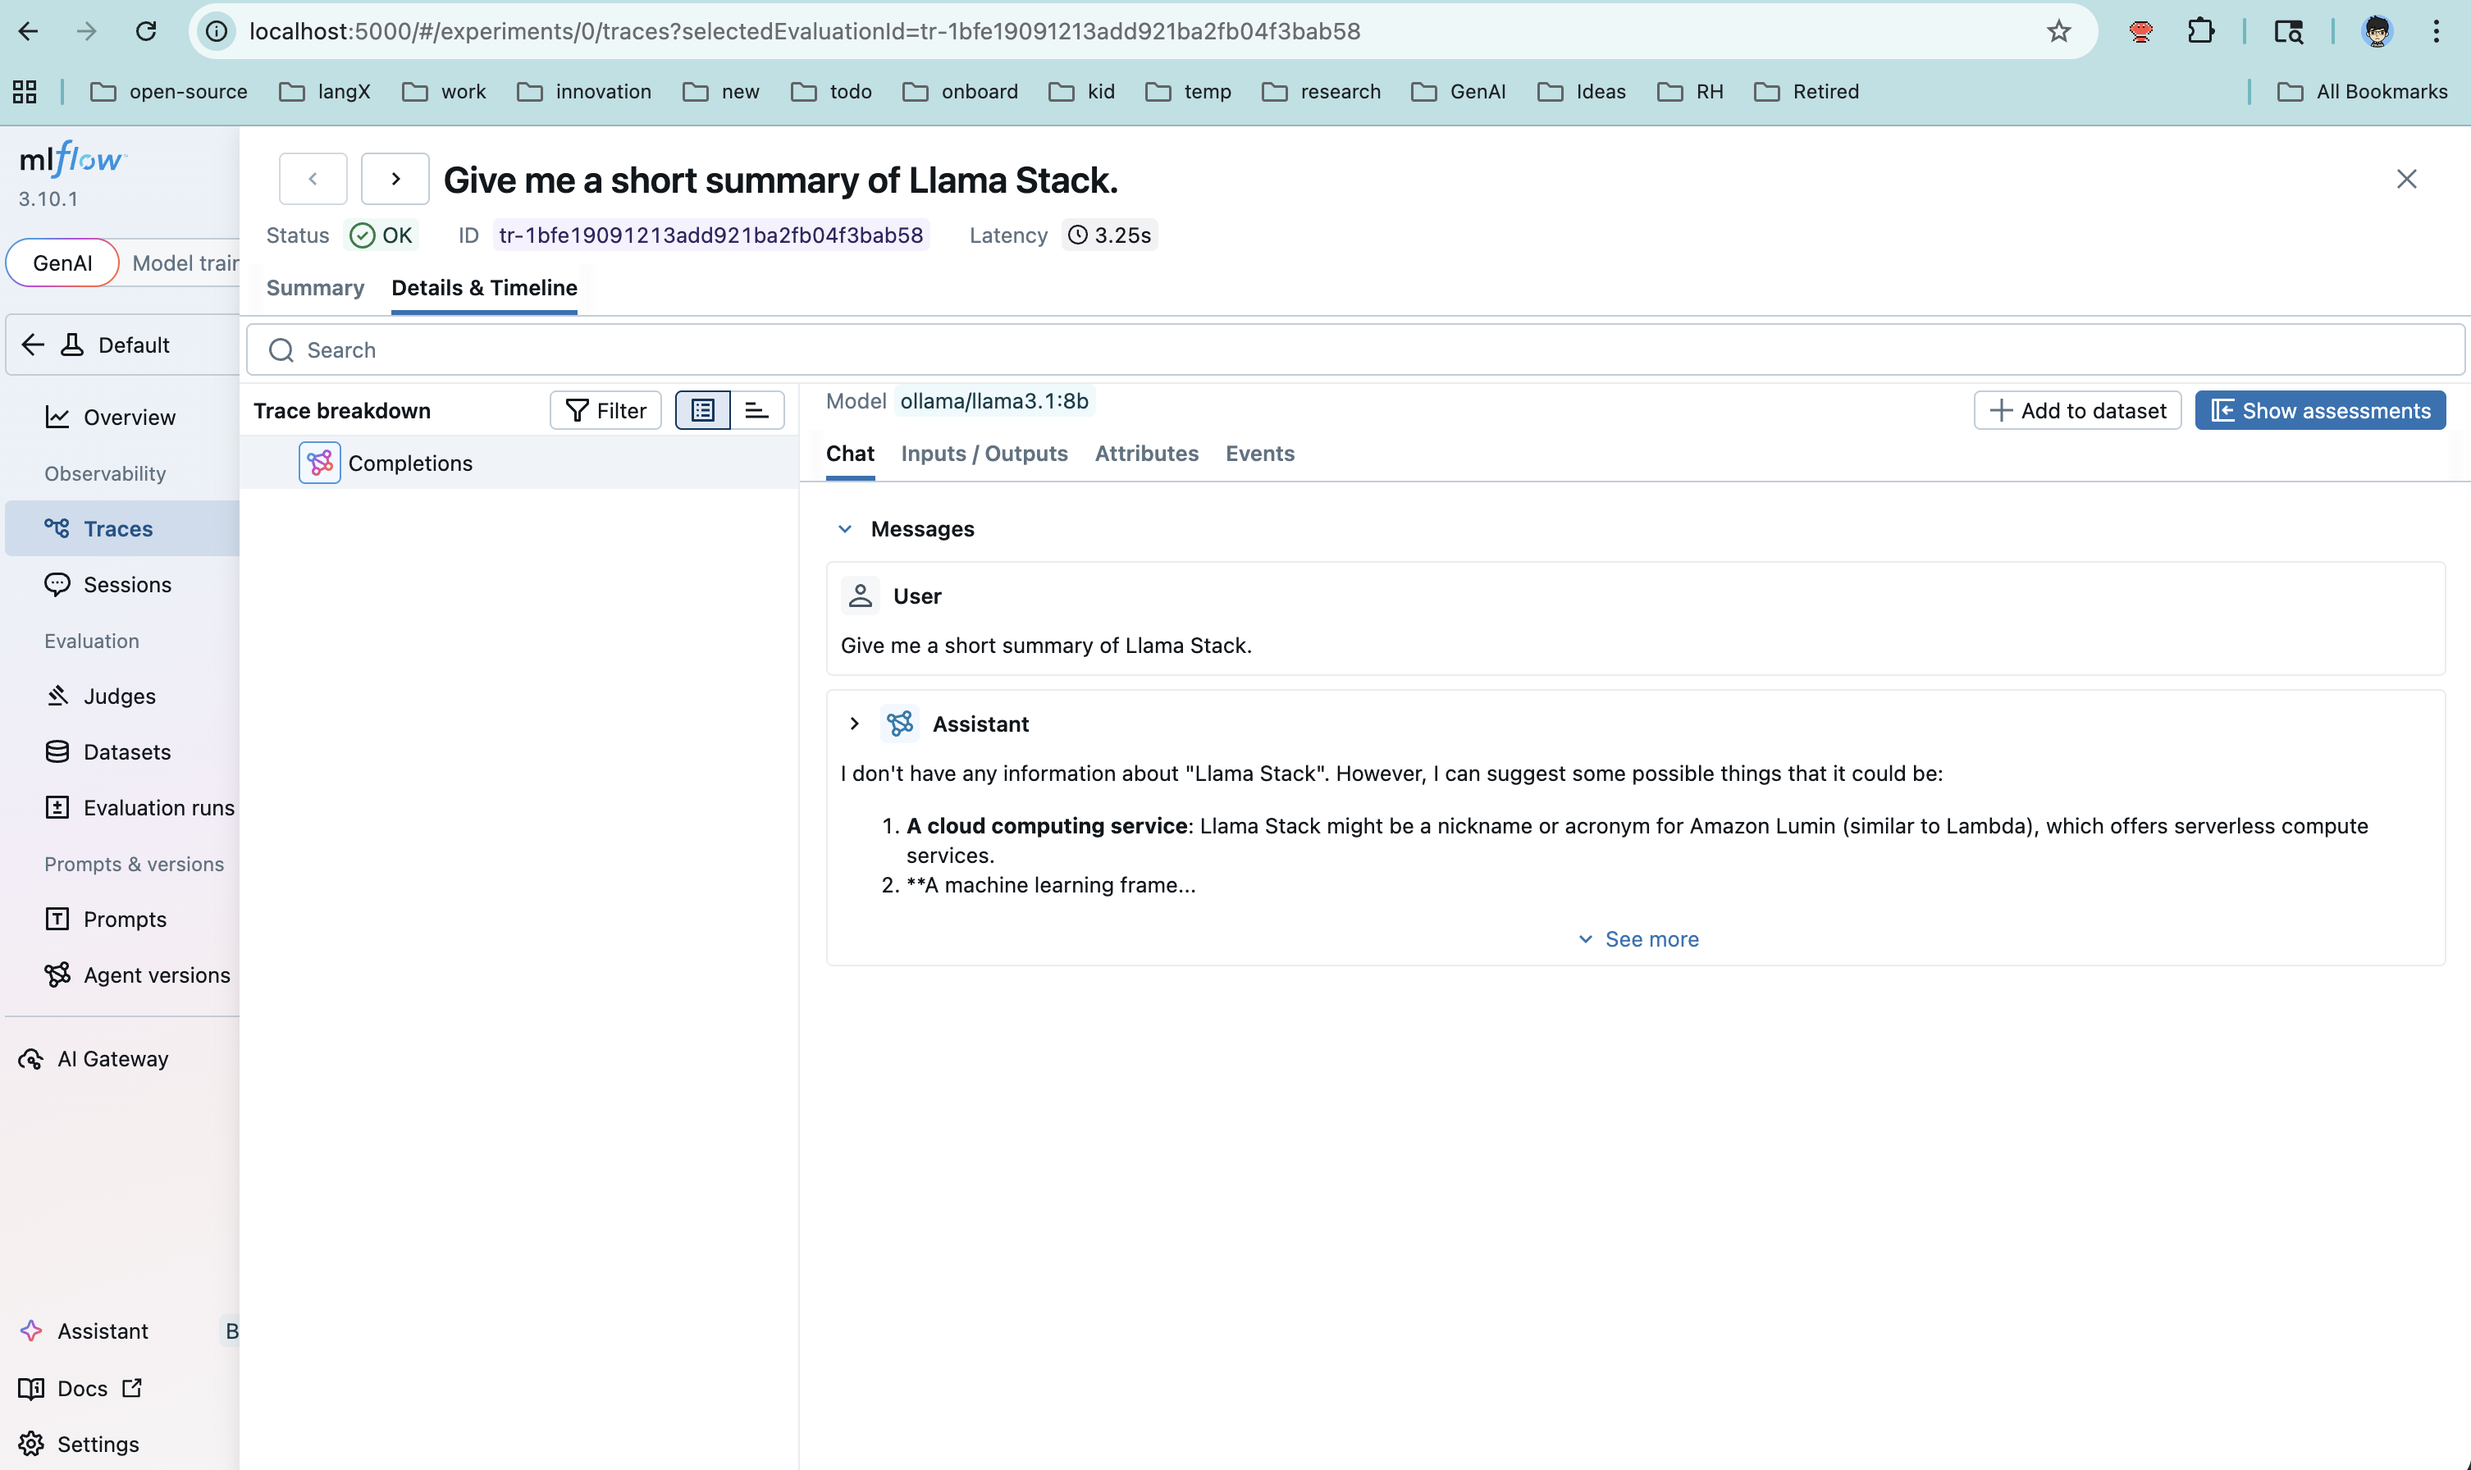
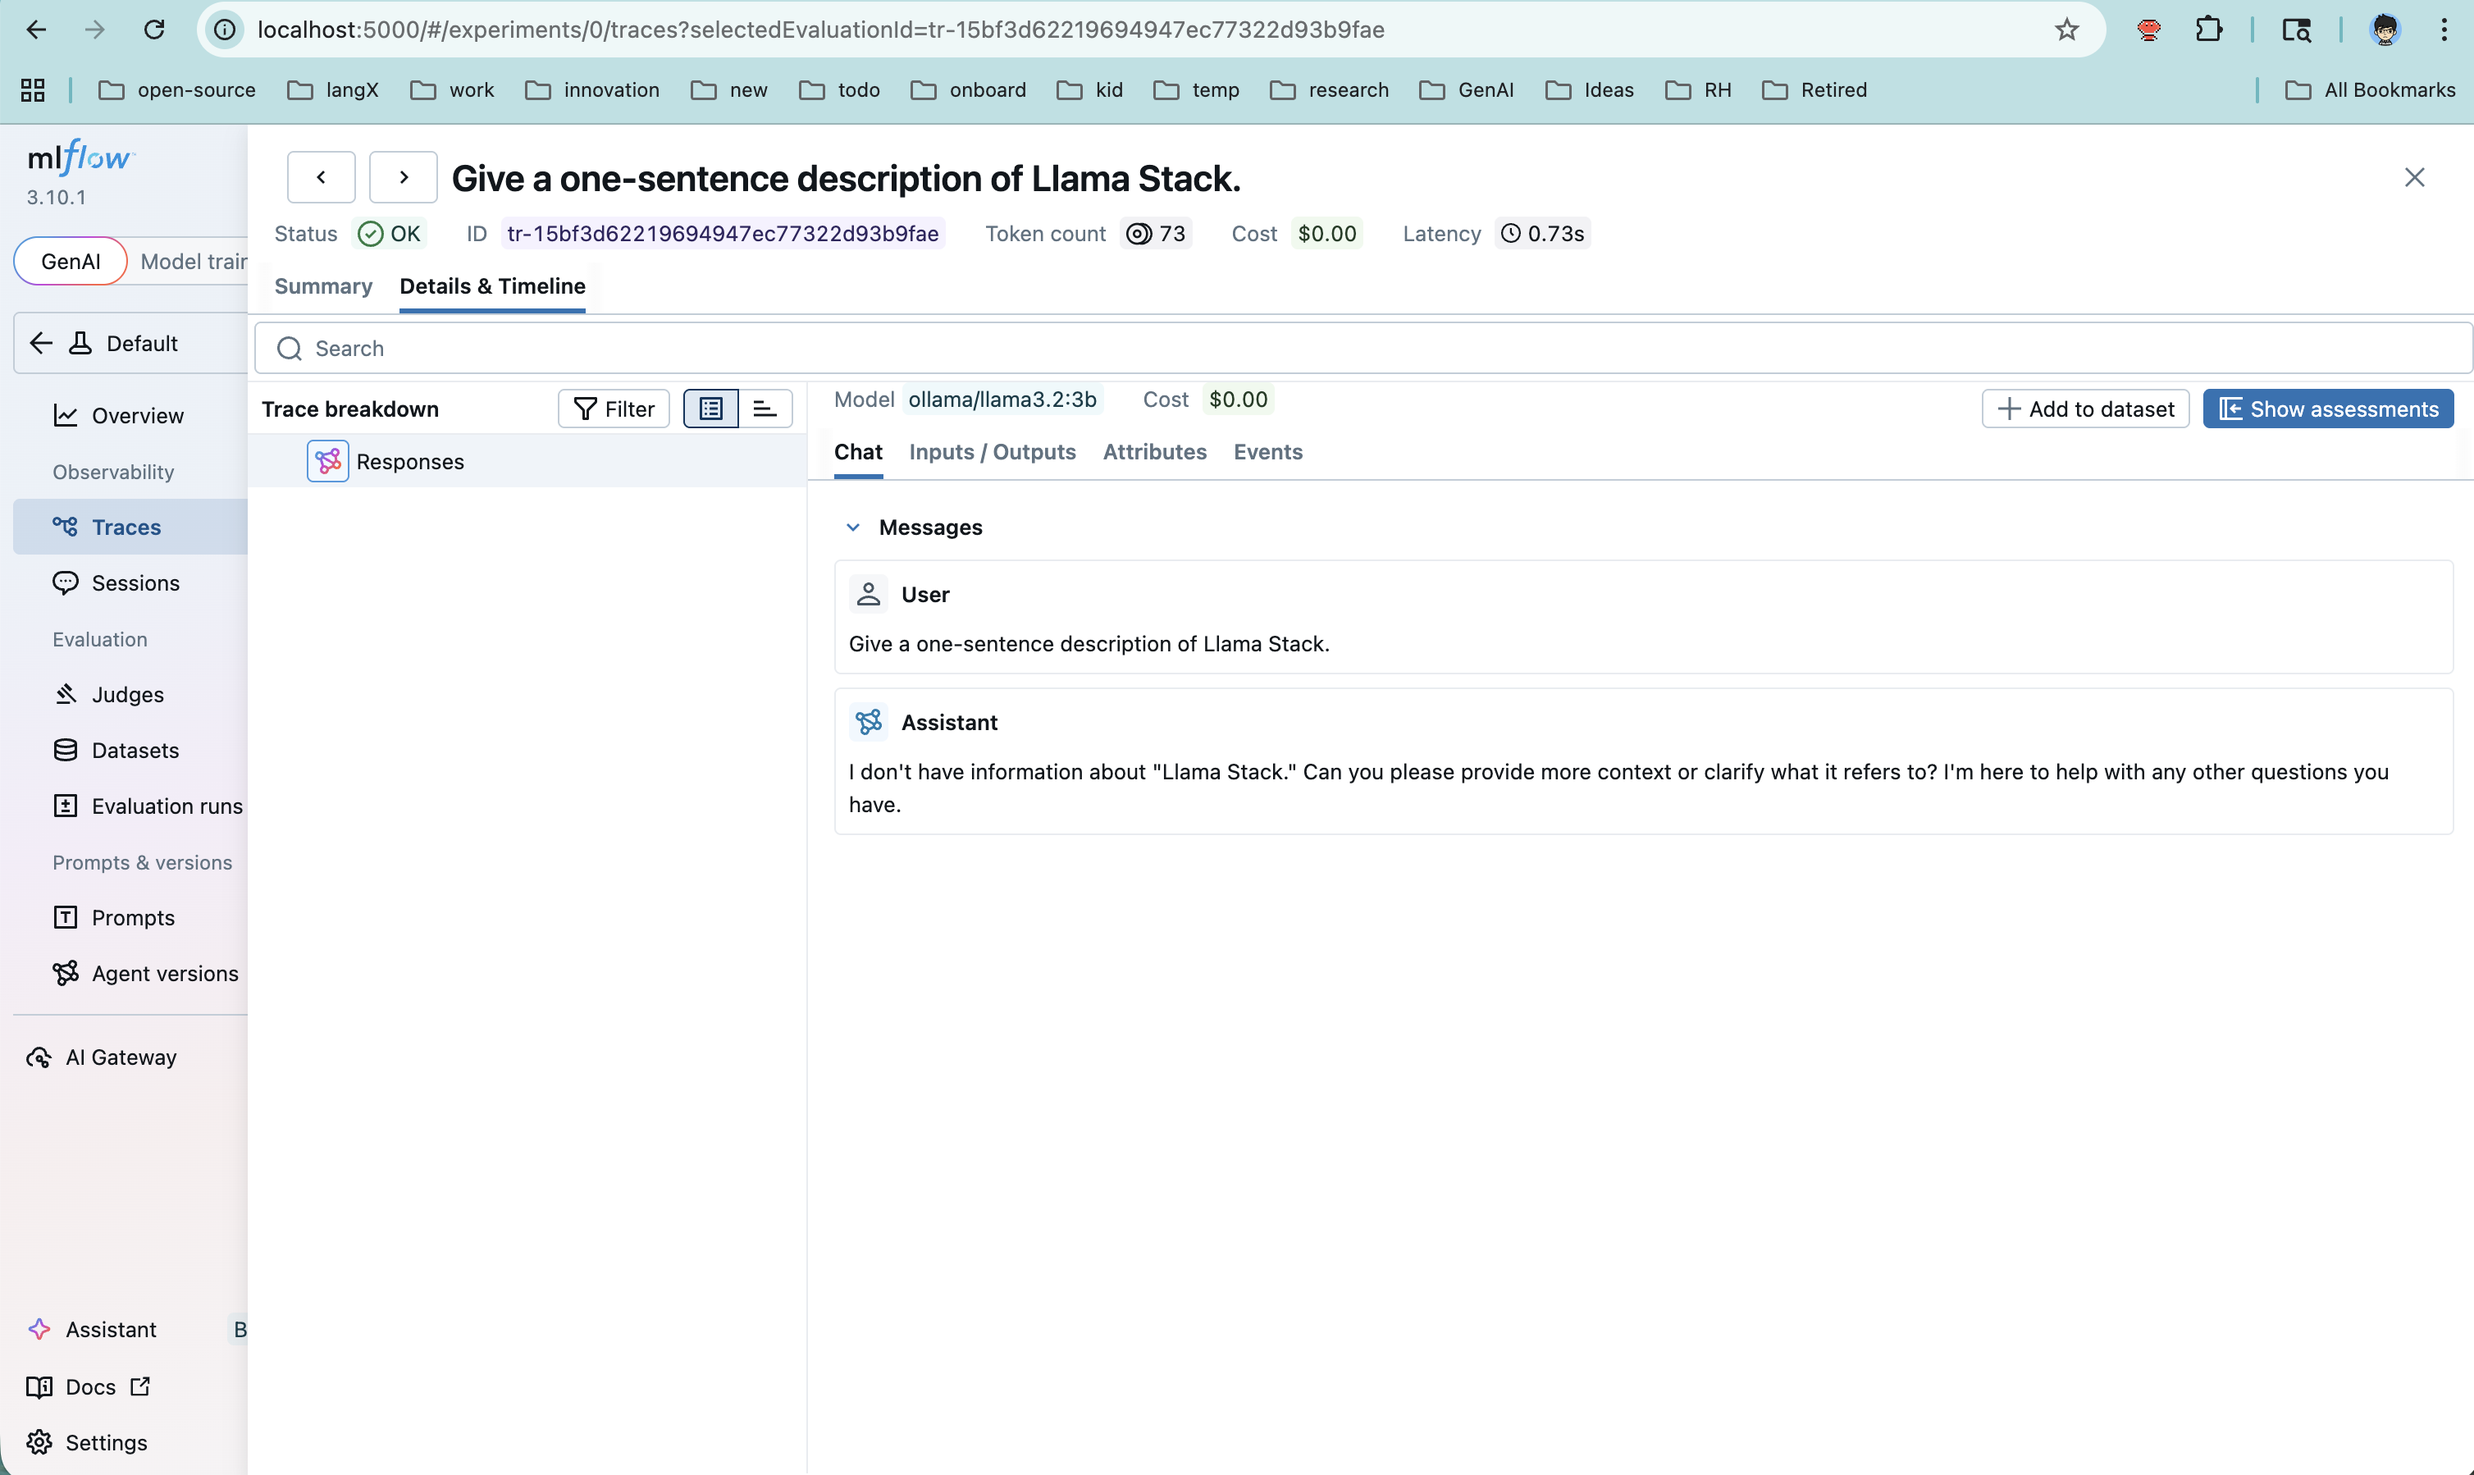
fix: use responses API

diff --git a/docs/blog/2026-04-06-mlflow-observability.md b/docs/blog/2026-04-06-mlflow-observability.md
@@ -88,7 +88,7 @@ sequenceDiagram
     participant UI as MLflow UI
 
     App->>SDK: mlflow.openai.autolog()
-    App->>SDK: client.chat.completions.create()
+    App->>SDK: client.responses.create()
     SDK->>SDK: Capture span (inputs, outputs, tokens)
     SDK->>Server: POST trace via MLflow Tracking API
     Server->>UI: Trace visible in dashboard
@@ -96,10 +96,11 @@ sequenceDiagram
 
 ### Step 1: Instrument Your Code
 
-Add MLflow tracing to your LlamaStack client code:
+Add MLflow tracing to your LlamaStack client code. The example below uses the [Responses API](https://platform.openai.com/docs/api-reference/responses) (`client.responses.create`), which is the recommended way to interact with LlamaStack:
 
 ```python
 import mlflow
+import mlflow.tracing as mlflow_tracing
 from openai import OpenAI
 
 # Configure MLflow
@@ -107,23 +108,23 @@ mlflow.set_tracking_uri("http://localhost:5000")
 mlflow.set_experiment("LlamaStack Demo")
 
 # Enable tracing and OpenAI autologging
-mlflow.tracing.enable()
+mlflow_tracing.enable()
 mlflow.openai.autolog()
 
 # Create an OpenAI-compatible client pointing to LlamaStack
 client = OpenAI(
     base_url="http://localhost:8321/v1",
-    api_key="unused",  # LlamaStack doesn't require an API key
+    api_key="fake",
 )
 
-# Make a chat completion request — MLflow captures the trace automatically
-response = client.chat.completions.create(
+response = client.responses.create(
     model="meta-llama/Llama-3.1-8B-Instruct",
-    messages=[{"role": "user", "content": "What is LlamaStack?"}],
+    input="Give a one-sentence description of LlamaStack.",
 )
-
-print(response.choices[0].message.content)
+print(response.output_text)
 ```
+
+MLflow's `openai.autolog()` automatically captures every `client.responses.create()` call as a trace, including inputs, outputs, token usage, and latency — with zero additional instrumentation code.
 
 ### Step 2: Run the Application
 
@@ -141,7 +142,7 @@ Open [http://localhost:5000](http://localhost:5000), navigate to your experiment
 - Latency breakdown
 - Span hierarchy
 
-![MLflow distributed traces for Llama Stack via SDK](./images/mlflow-sdk.png)
+![MLflow distributed traces for LlamaStack via SDK](./images/mlflow-sdk.png)
 
 ### Pros and Cons
 
@@ -259,7 +260,7 @@ sqlite3 mlflow.db "SELECT count(*) FROM trace_info;"
 
 Then open the MLflow UI at [http://localhost:5000](http://localhost:5000) to explore the traces visually.
 
-![MLflow distributed traces for Llama Stack via OTEL](./images/otel-mlflow.png)
+![MLflow distributed traces for LlamaStack via OTEL](./images/otel-mlflow.png)
 
 ### Pros and Cons
 
@@ -270,6 +271,10 @@ Then open the MLflow UI at [http://localhost:5000](http://localhost:5000) to exp
 | **Production-ready** | OTel Collector provides buffering, retry, and batching |
 | **Complexity** | Requires running and configuring an additional service (the collector) |
 | **Data richness** | OTel OpenAI instrumentation may capture different fields than MLflow autolog |
+
+### Responses API Support
+
+**Note:** OpenTelemetry auto-instrumentation for the Responses API is not yet available upstream. Progress is tracked in [llamastack/llama-stack#5192](https://github.com/llamastack/llama-stack/issues/5192). In the meantime, Approach 1 (MLflow SDK) fully supports tracing Responses API calls via `mlflow.openai.autolog()`.
 
 ## Approach Comparison
 
@@ -314,6 +319,8 @@ opentelemetry-instrument llama stack run starter
 
 This gives you end-to-end visibility: client-side spans showing the request lifecycle, and server-side spans showing internal LlamaStack processing.
 
+> **Important:** MLflow SDK tracing only instruments the **client side**. The LlamaStack server itself is not instrumented by MLflow, so server-side spans (inference routing, tool execution, etc.) are only visible through OpenTelemetry auto-instrumentation (Approach 2).
+>
 ## Common Gotchas
 
 1. **MLflow OTLP endpoint path**: Use `/v1/traces`, not `/api/2.0/otlp/v1/traces` (the latter returns 404 in MLflow 3.10+).
@@ -335,7 +342,7 @@ Both approaches get your LlamaStack traces into MLflow, but they serve different
 
 The good news: since LlamaStack exposes an OpenAI-compatible API, both paths leverage existing, well-maintained instrumentation libraries. You're not writing custom tracing code — you're plugging into an ecosystem.
 
-## Quick start with containers
+## Quick Start With Containers
 
 A pending PR, [feat: add MLflow support for LlamaStack](https://github.com/llamastack/llama-stack/pull/5409), will let you run LlamaStack alongside MLflow, Grafana, and Prometheus in containers with a single command. Once that PR lands, use the [telemetry scripts](https://github.com/llamastack/llama-stack/tree/main/scripts/telemetry) in the LlamaStack repository for the full walkthrough.
 
